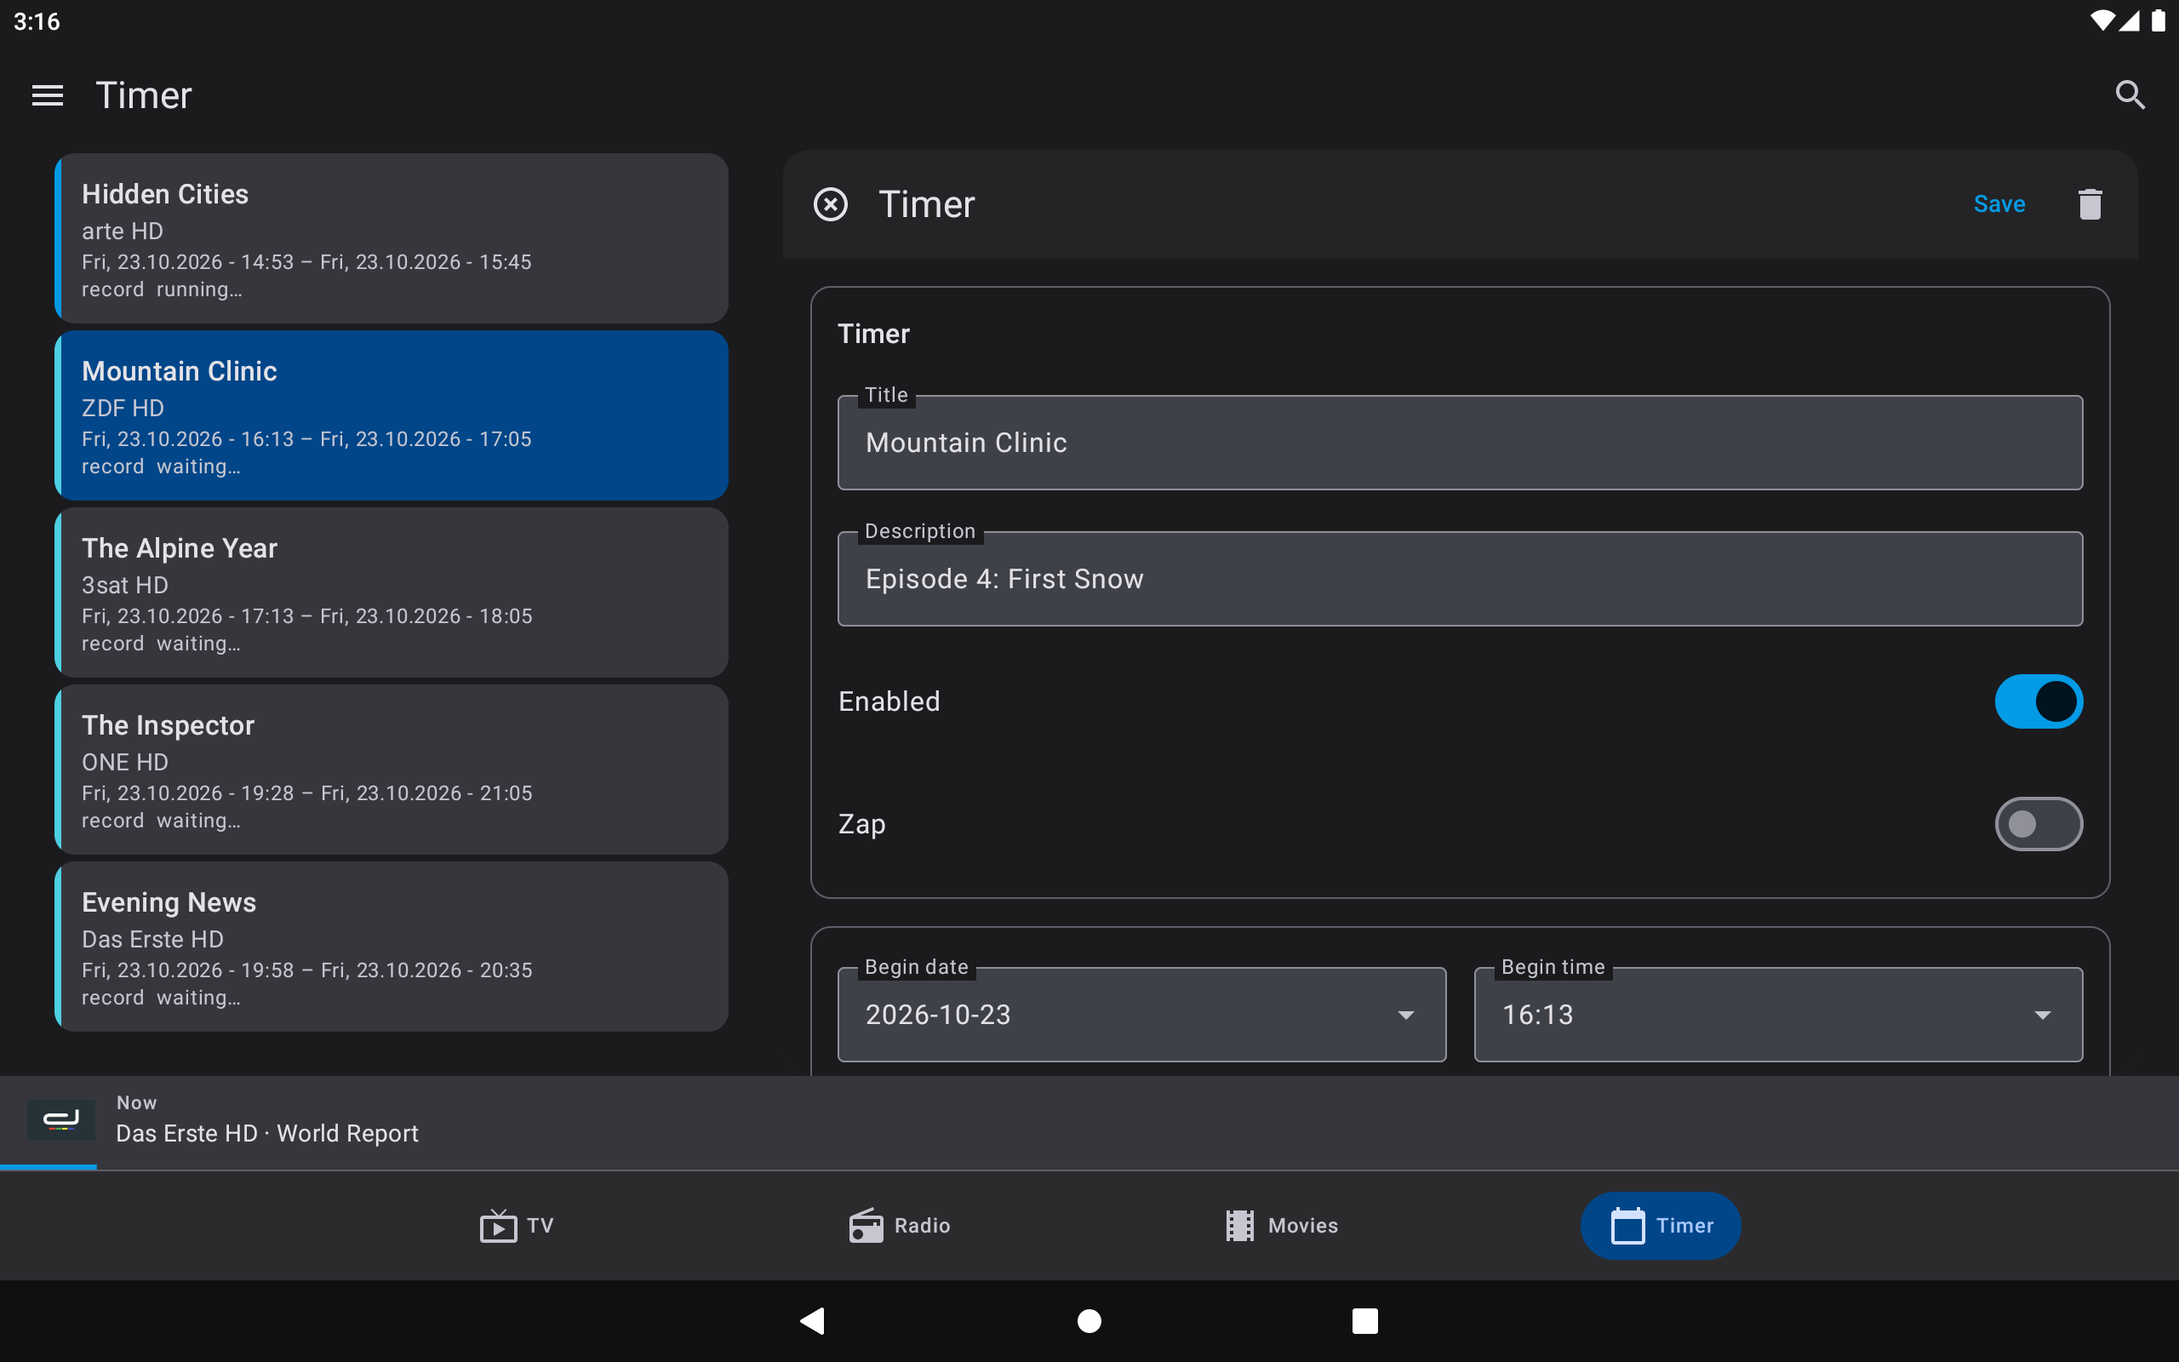
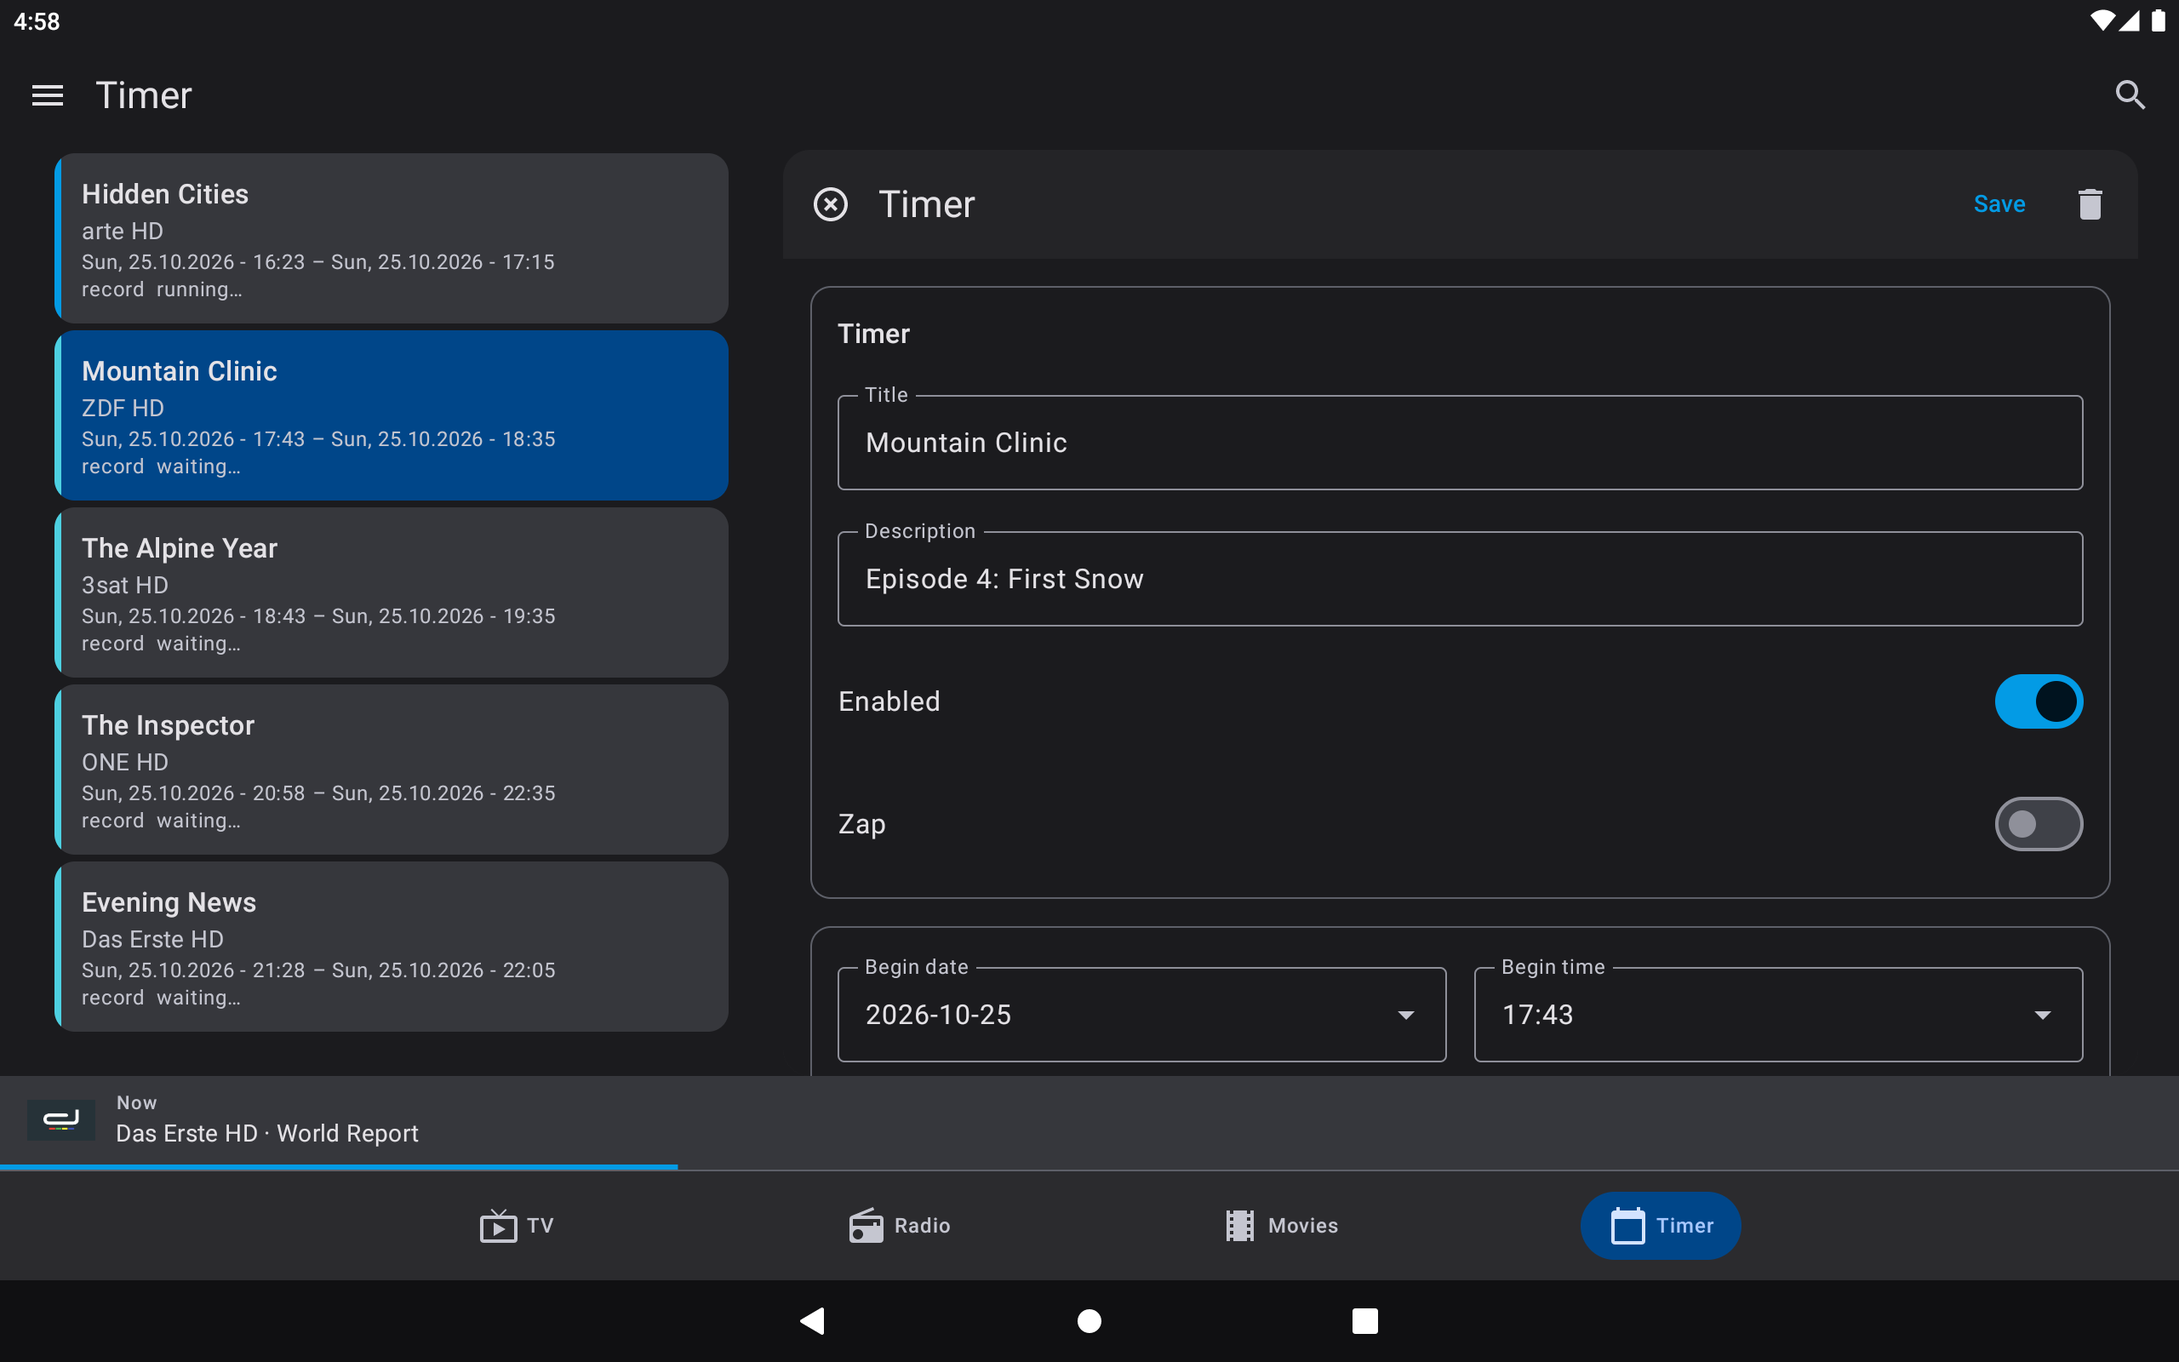
Use Material 3 defaults and list rows in the edit form
Fields and cards take the M3 defaults. The last two hand-rolled phone controls are M3 ListItems: switch rows with the summary inside the 56/72 dp target, and picker rows instead of a disabled field with a full-size tap overlay. TV labels and supporting text take the field's colours, so the focused label and an error in `hostError` survive. The timer-editor screenshot waits for a screen change.

diff --git a/app/src/net/reichholf/dreamdroid/ui/compose/EditForm.kt b/app/src/net/reichholf/dreamdroid/ui/compose/EditForm.kt
@@ -2,7 +2,6 @@ package net.reichholf.dreamdroid.ui.compose
 
 import androidx.compose.foundation.clickable
 import androidx.compose.foundation.layout.Arrangement
-import androidx.compose.foundation.layout.Box
 import androidx.compose.foundation.layout.Column
 import androidx.compose.foundation.layout.ColumnScope
 import androidx.compose.foundation.layout.Row
@@ -21,7 +20,6 @@ import androidx.compose.foundation.text.input.TextFieldLineLimits
 import androidx.compose.foundation.text.input.TextFieldState
 import androidx.compose.foundation.text.input.TextObfuscationMode
 import androidx.compose.foundation.verticalScroll
-import androidx.compose.material3.CardDefaults
 import androidx.compose.material3.DropdownMenuItem
 import androidx.compose.material3.ExperimentalMaterial3Api
 import androidx.compose.material3.ExposedDropdownMenuAnchorType
@@ -29,11 +27,11 @@ import androidx.compose.material3.ExposedDropdownMenuBox
 import androidx.compose.material3.ExposedDropdownMenuDefaults
 import androidx.compose.material3.Icon
 import androidx.compose.material3.IconButton
+import androidx.compose.material3.ListItem
 import androidx.compose.material3.MaterialTheme
 import androidx.compose.material3.OutlinedCard
 import androidx.compose.material3.OutlinedSecureTextField
 import androidx.compose.material3.OutlinedTextField
-import androidx.compose.material3.OutlinedTextFieldDefaults
 import androidx.compose.material3.Switch
 import androidx.compose.material3.Text
 import androidx.compose.runtime.Composable
@@ -74,8 +72,8 @@ import net.reichholf.dreamdroid.ui.theme.LocalTvFormChrome
 
 /**
  * Material 3 compact-form metrics: 16.dp screen inset, 16.dp between fields and
- * section cards, 56.dp switch rows, [titleMedium] section titles, [bodyLarge]
- * controls. Binary settings use a trailing [Switch], not a leading checkbox.
+ * section cards, [titleMedium] section titles, [bodyLarge] controls. Binary
+ * settings are [ListItem] rows with a trailing [Switch], not a leading checkbox.
  *
  * The TV variant ([LocalTvFormChrome]) swaps in the components from `TvForm.kt`:
  * section headers instead of cards, TV rows for switches, pickers, dropdowns and
@@ -86,7 +84,6 @@ object EditForm {
     val GroupSpacing = 16.dp
     val FieldSpacing = 16.dp
     val CardPadding = 16.dp
-    val SwitchRowMinHeight = 56.dp
 }
 
 /** Screen inset and group spacing of the current form factor. */
@@ -124,7 +121,7 @@ private fun editFormFieldTextStyle(): TextStyle {
     return MaterialTheme.typography.bodyLarge.copy(color = MaterialTheme.colorScheme.onSurface)
 }
 
-/** Text fields and pick fields are 72.dp tall in a TV form, 56.dp on phone. */
+/** Text and dropdown fields are 72.dp tall in a TV form; the phone keeps the M3 default. */
 @Composable
 private fun editFormFieldHeight(): Modifier =
     if (LocalTvFormChrome.current) Modifier.heightIn(min = 72.dp) else Modifier
@@ -180,10 +177,7 @@ fun EditFormSection(
         return
     }
     OutlinedCard(
-        modifier = modifier.fillMaxWidth(),
-        colors = CardDefaults.outlinedCardColors(
-            containerColor = MaterialTheme.colorScheme.surface
-        )
+        modifier = modifier.fillMaxWidth()
     ) {
         Column(
             modifier = Modifier
@@ -256,52 +250,25 @@ fun EditSwitchRow(
         )
         return
     }
-    if (summary == null) {
-        SwitchToggleRow(checked, onCheckedChange, label, modifier, enabled)
-    } else {
-        Column(modifier = modifier.fillMaxWidth()) {
-            SwitchToggleRow(checked, onCheckedChange, label, Modifier, enabled)
-            Text(
-                text = summary,
-                style = MaterialTheme.typography.bodyMedium,
-                color = MaterialTheme.colorScheme.onSurfaceVariant
+    ListItem(
+        headlineContent = { Text(label) },
+        supportingContent = summary?.let { text -> { Text(text) } },
+        trailingContent = {
+            Switch(
+                checked = checked,
+                onCheckedChange = null,
+                enabled = enabled
             )
-        }
-    }
-}
-
-@Composable
-private fun SwitchToggleRow(
-    checked: Boolean,
-    onCheckedChange: (Boolean) -> Unit,
-    label: String,
-    modifier: Modifier,
-    enabled: Boolean = true
-) {
-    Row(
+        },
         modifier = modifier
             .fillMaxWidth()
-            .heightIn(min = EditForm.SwitchRowMinHeight)
-            .semantics(mergeDescendants = true) { contentDescription = label }
             .toggleable(
                 value = checked,
                 onValueChange = onCheckedChange,
                 enabled = enabled,
                 role = Role.Switch
-            ),
-        verticalAlignment = Alignment.CenterVertically
-    ) {
-        Text(
-            text = label,
-            style = MaterialTheme.typography.bodyLarge,
-            color = MaterialTheme.colorScheme.onSurface,
-            modifier = Modifier.weight(1f)
-        )
-        Switch(
-            checked = checked,
-            onCheckedChange = null
-        )
-    }
+            )
+    )
 }
 
 @Composable
@@ -369,10 +336,7 @@ fun EditOutlinedTextField(
         } else {
             VisualTransformation.None
         },
-        textStyle = editFormFieldTextStyle(),
-        colors = OutlinedTextFieldDefaults.colors(
-            unfocusedContainerColor = MaterialTheme.colorScheme.surfaceContainerHighest
-        )
+        textStyle = editFormFieldTextStyle()
     )
 }
 
@@ -406,9 +370,6 @@ fun EditOutlinedTextField(
     )
     val textStyle = editFormFieldTextStyle()
     val fieldHeight = editFormFieldHeight()
-    val colors = OutlinedTextFieldDefaults.colors(
-        unfocusedContainerColor = MaterialTheme.colorScheme.surfaceContainerHighest
-    )
     // Next moves on down the form; Done leaves the field and hides the keyboard. On
     // phone the Material 3 defaults stay.
     val keyboardAction: KeyboardActionHandler? = if (tv) {
@@ -449,7 +410,6 @@ fun EditOutlinedTextField(
             keyboardOptions = keyboardOptions,
             onKeyboardAction = keyboardAction,
             textStyle = textStyle,
-            colors = colors,
             modifier = fieldModifier
         )
     } else {
@@ -471,7 +431,6 @@ fun EditOutlinedTextField(
             keyboardOptions = keyboardOptions,
             onKeyboardAction = keyboardAction,
             textStyle = textStyle,
-            colors = colors,
             modifier = fieldModifier.semantics { this.contentDescription = contentDescription }
         )
     }
@@ -481,11 +440,8 @@ fun EditOutlinedTextField(
 @Composable
 private fun EditFormFieldLabel(label: String) {
     if (LocalTvFormChrome.current) {
-        TvText(
-            text = label,
-            style = TvMaterialTheme.typography.titleSmall,
-            color = TvMaterialTheme.colorScheme.onSurface
-        )
+        // No colour: the field's decoration supplies M3's label colours, focused included.
+        TvText(text = label, style = TvMaterialTheme.typography.titleSmall)
     } else {
         Text(text = label)
     }
@@ -495,11 +451,8 @@ private fun EditFormFieldLabel(label: String) {
 @Composable
 private fun EditFormSupportingText(message: String) {
     if (LocalTvFormChrome.current) {
-        TvText(
-            text = message,
-            style = TvMaterialTheme.typography.bodyMedium,
-            color = TvMaterialTheme.colorScheme.onSurface
-        )
+        // No colour: an error supporting text has to stay in the field's error colour.
+        TvText(text = message, style = TvMaterialTheme.typography.bodyMedium)
     } else {
         Text(text = message)
     }
@@ -557,48 +510,24 @@ private fun PasswordVisibilityToggle(visible: Boolean, onToggle: () -> Unit) {
     }
 }
 
-@OptIn(ExperimentalMaterial3Api::class)
 @Composable
 fun EditPickField(
     value: String,
     label: String,
     onClick: () -> Unit,
-    modifier: Modifier = Modifier,
-    contentDescription: String = label
+    modifier: Modifier = Modifier
 ) {
     if (LocalTvFormChrome.current) {
         TvFormPickRow(value = value, label = label, onClick = onClick, modifier = modifier)
         return
     }
-    Box(modifier = modifier.fillMaxWidth()) {
-        OutlinedTextField(
-            value = value,
-            onValueChange = {},
-            label = { Text(label) },
-            readOnly = true,
-            enabled = false,
-            trailingIcon = { ExposedDropdownMenuDefaults.TrailingIcon(expanded = false) },
-            modifier = Modifier
-                .fillMaxWidth()
-                .then(editFormFieldHeight()),
-            textStyle = editFormFieldTextStyle(),
-            colors = OutlinedTextFieldDefaults.colors(
-                unfocusedContainerColor = MaterialTheme.colorScheme.surfaceContainerHighest,
-                disabledContainerColor = MaterialTheme.colorScheme.surfaceContainerHighest,
-                disabledTextColor = MaterialTheme.colorScheme.onSurface,
-                disabledBorderColor = MaterialTheme.colorScheme.outline,
-                disabledLabelColor = MaterialTheme.colorScheme.onSurfaceVariant,
-                disabledTrailingIconColor = MaterialTheme.colorScheme.onSurfaceVariant
-            )
-        )
-        // Disabled fields drop click semantics; overlay keeps the picker tappable.
-        Box(
-            modifier = Modifier
-                .matchParentSize()
-                .clickable(onClick = onClick, role = Role.Button)
-                .semantics { this.contentDescription = contentDescription }
-        )
-    }
+    ListItem(
+        headlineContent = { Text(label) },
+        supportingContent = { Text(value) },
+        modifier = modifier
+            .fillMaxWidth()
+            .clickable(onClick = onClick, role = Role.Button)
+    )
 }
 
 @OptIn(ExperimentalMaterial3Api::class)
@@ -644,10 +573,7 @@ fun EditDropdownField(
                 .fillMaxWidth()
                 .then(editFormFieldHeight())
                 .semantics { this.contentDescription = contentDescription },
-            textStyle = editFormFieldTextStyle(),
-            colors = OutlinedTextFieldDefaults.colors(
-                unfocusedContainerColor = MaterialTheme.colorScheme.surfaceContainerHighest
-            )
+            textStyle = editFormFieldTextStyle()
         )
         ExposedDropdownMenu(
             expanded = expanded,

diff --git a/app/androidTest/java/net/reichholf/dreamdroid/ui/timers/TimerEditScreenTest.kt b/app/androidTest/java/net/reichholf/dreamdroid/ui/timers/TimerEditScreenTest.kt
@@ -83,10 +83,10 @@ class TimerEditScreenTest {
             "Switch rows are at least 56.dp, height=$enabledHeight",
             enabledHeight >= 56.dp
         )
-        val beginDate = composeRule.onNodeWithContentDescription("Begin date")
+        val beginDate = composeRule.onNodeWithText("Begin date")
             .performScrollTo()
             .getBoundsInRoot()
-        val beginTime = composeRule.onNodeWithContentDescription("Begin time")
+        val beginTime = composeRule.onNodeWithText("Begin time")
             .getBoundsInRoot()
         assertTrue(
             "Begin date and time stay on one row, date=$beginDate time=$beginTime",
@@ -108,7 +108,7 @@ class TimerEditScreenTest {
         }
 
         composeRule.onNodeWithText("News").performScrollTo().assertIsDisplayed()
-        composeRule.onNodeWithContentDescription("Tags")
+        composeRule.onNodeWithText("Tags")
             .performScrollTo()
             .assertIsDisplayed()
             .performClick()
@@ -134,7 +134,7 @@ class TimerEditScreenTest {
             }
         }
 
-        val tags = composeRule.onNodeWithContentDescription("Tags")
+        val tags = composeRule.onNodeWithText("Tags")
             .performScrollTo()
             .getBoundsInRoot()
         val host = composeRule.onNodeWithTag("host").getBoundsInRoot()
@@ -209,7 +209,7 @@ class TimerEditScreenTest {
         composeRule.onNodeWithText(string(R.string.vps_note))
             .performScrollTo()
             .assertIsDisplayed()
-        composeRule.onNodeWithContentDescription(string(R.string.vps_time)).assertDoesNotExist()
+        composeRule.onNodeWithText(string(R.string.vps_time)).assertDoesNotExist()
     }
 
     @Test
@@ -222,10 +222,10 @@ class TimerEditScreenTest {
             }
         }
 
-        composeRule.onNodeWithContentDescription(string(R.string.vps_date))
+        composeRule.onNodeWithText(string(R.string.vps_date))
             .performScrollTo()
             .performClick()
-        composeRule.onNodeWithContentDescription(string(R.string.vps_time))
+        composeRule.onNodeWithText(string(R.string.vps_time))
             .performScrollTo()
             .performClick()
         assertEquals(listOf(TimerEditPick.VpsDate, TimerEditPick.VpsTime), picks)
@@ -257,7 +257,7 @@ class TimerEditScreenTest {
                 }
             }
         }
-        composeRule.onNodeWithContentDescription(string(R.string.repeatings)).performScrollTo()
+        composeRule.onNodeWithText(string(R.string.repeatings)).performScrollTo()
 
         // The snackbar's timeout runs on the test clock.
         composeRule.mainClock.autoAdvance = false
@@ -319,7 +319,7 @@ class TimerEditScreenTest {
             }
         }
 
-        composeRule.onNodeWithContentDescription(string(R.string.repeatings))
+        composeRule.onNodeWithText(string(R.string.repeatings))
             .performScrollTo()
             .performClick()
         composeRule.onNode(isDialog()).assertIsDisplayed()

diff --git a/app/androidTest/java/net/reichholf/dreamdroid/screenshots/StoreScreenshotsTest.kt b/app/androidTest/java/net/reichholf/dreamdroid/screenshots/StoreScreenshotsTest.kt
@@ -225,9 +225,12 @@ class StoreScreenshotsTest {
 
             // New timer: the editor replaces the timers section, Back returns to the list.
             tvClick("hub_tab_timers")
+            // Gate on the screen, not on semantics: the display can lag the composition by a
+            // frame, and two stale frames of the list look stable to saveScreen().
+            val timersList = checkNotNull(instrumentation.uiAutomation.takeScreenshot())
             tvClick("tv_timers_add")
-            awaitNode(hasText(context.getString(R.string.enabled)) and hasClickAction())
-            // The editor opens on the name field, at the top of the form.
+            awaitNode(hasText(context.getString(R.string.save)) and hasClickAction())
+            awaitScreenChange(timersList)
             capture("5_timer_editor")
             back(scenario)
             awaitNode(hasTestTag("tv_timers_list"))

diff --git a/app/androidTest/java/net/reichholf/dreamdroid/ui/profiles/ProfileEditScreenTest.kt b/app/androidTest/java/net/reichholf/dreamdroid/ui/profiles/ProfileEditScreenTest.kt
@@ -400,6 +400,10 @@ class ProfileEditScreenTest {
         vps.performScrollTo().assertIsOff()
         composeRule.onNodeWithText("Uses the receiver's VPS plugin for timers.")
             .assertIsDisplayed()
+        // The summary sits inside the row's toggle target, not in a sibling below it.
+        composeRule.onNode(
+            hasText("Uses the receiver's VPS plugin for timers.") and isToggleable()
+        ).assertIsOff()
         composeRule.onNodeWithContentDescription("VPS default for new timers")
             .assertDoesNotExist()
 

diff --git a/app/res/raw-de/changelog.md b/app/res/raw-de/changelog.md
@@ -2,6 +2,7 @@
 
 ## 2.0.470
 * UPD: TV - Profil- und Timer-Editor passen zum Hub
+* UPD: Viele UI-Verbesserungen
 
 ## 2.0.469
 * UPD: TV - Hub, Player, MultiEPG und Bearbeiten überarbeitet

diff --git a/app/res/raw/changelog.md b/app/res/raw/changelog.md
@@ -2,6 +2,7 @@
 
 ## 2.0.470
 * UPD: TV - profile and timer editors match the hub
+* UPD: Many UI improvements
 
 ## 2.0.469
 * UPD: TV - rework hub, player, MultiEPG, editing
